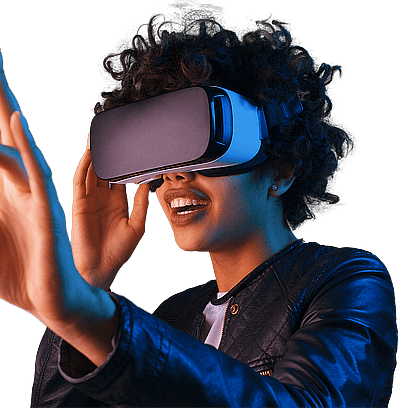
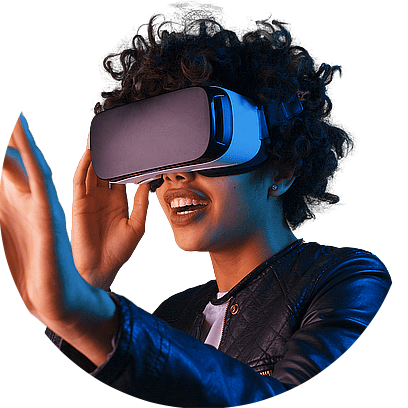
add/log-sign styles

diff --git a/public/styles.css b/public/styles.css
@@ -1,5 +1,57 @@
+.format_logSign{
+    display: flex;
+    flex-direction: column;
+    align-items: center;
+    margin-top: 5%;
+}
+
+.loginForm{
+    display: flex;
+    flex-direction: column;
+    align-items: center;
+    background: linear-gradient(180deg, #837688 20%, #066254 100%) padding-box;
+    border-radius: 1em;
+    width: 80%;
+    padding: 5% 0%;
+}
+
+a, .transparentBack{
+    background: rgba(255, 255, 255, 0)
+}
+
+input[type="email"], input[type="password"]{
+    width: 80%;
+    margin-bottom: 5%;
+}
+
+.greenletter{
+    color: rgb(4, 234, 255);
+}
+
+.pinkletter{
+    color:#EF5DBC;
+}
+
+.rowDirection {
+    display: flex;
+    flex-direction: row;
+    align-items: center;
+    justify-content: center;
+}
+
+input[type="submit"] {
+    margin-top: 10%;
+    padding: 7px 40px;
+    background: linear-gradient(180deg, #ad4788 0%, #066254 100%) padding-box,
+        linear-gradient(to bottom, #EF5DBC, rgb(4, 234, 255)) border-box;
+    border-radius: 0.75em;
+    border: 4px solid transparent;
+    font-size: 20px;
+}
+
+/* BROWSER */
 :root {
-    --pink: #F736B1;
+    --pink: #c2318d;
     --background-base: #19191A;
     --title-blue: #11E0C1;
 }
@@ -140,37 +192,37 @@ section.movies-found article a:hover p.movie-title {
 }
 
 /* HAMBURGUESA */
-#formatHeader{
+#formatHeader {
     display: flex;
     flex-direction: row;
-    align-items: center;   
-    justify-content:space-around;
+    align-items: center;
+    justify-content: space-around;
     margin-top: 5%;
 }
 
-#space{
-    width:10vw;
+#space {
+    width: 10vw;
 }
 
-#burger{
+#burger {
     width: 10vw;
     border: solid rgb(206, 78, 228);
     border-radius: 50%;
 }
 
-#burger-checkbox{
+#burger-checkbox {
     display: none;
 }
 
-nav{
-    display:none;
-        top: 0;
-        left: 0;
-        width: 100%;
-        height: 80px;
-        padding: 10px 90px;
-        box-sizing: border-box;
-        z-index: 9999
+nav {
+    display: none;
+    top: 0;
+    left: 0;
+    width: 100%;
+    height: 80px;
+    padding: 10px 90px;
+    box-sizing: border-box;
+    z-index: 9999
 }
 
 nav ul {
@@ -197,25 +249,45 @@ nav ul li a:hover {
     border-radius: 5px;
 }
 
-#burger-checkbox:checked ~ nav{
-    display:block;
+#burger-checkbox:checked~nav {
+    display: block;
 }
+
 /* ***** */
 
 /* LOG/SIGN */
-.googleicon{
+.googleicon {
     margin-left: 2%;
     width: 5%;
 }
 
-.girl-logo{
+.girl-logo {
     border-radius: 50%;
-    border: solid rgb(204, 91, 193) 5px;
-    width: 25%;
-    height: 25%;
+    border: #e83ca9;
+    border-style: solid;
+    border-width: 5px;
+    border-radius: 50%;
+    width: 50%;
+    height: 50%;
 }
+
 /* ***** */
 
+/*ABOUT*/
+.integrantes {
+    display: flex;
+    flex-direction: row;
+    align-items: center;
+}
+
+.githublogo {
+    width: 7%;
+    height: 7%;
+    border-radius: 50%;
+    margin-left: 2%;
+}
+
+/* ***** */
 /*POPUP DELETE MY MOVIES*/
 .popup-background {
     position: fixed;
@@ -226,8 +298,9 @@ nav ul li a:hover {
     display: flex;
     justify-content: center;
     align-items: center;
-    
+
 }
+
 /* ***** */
 
 .popup-content {
@@ -239,15 +312,15 @@ nav ul li a:hover {
     height: 25%;
 }
 
-a:hover{
+a:hover {
     cursor: pointer;
 }
 
-button:hover{
+button:hover {
     cursor: pointer;
 }
 
-button:active{
+button:active {
     box-shadow: 0 3px #666;
     transform: translateY(4px);
 }

diff --git a/controllers/userController.js b/controllers/userController.js
@@ -171,6 +171,10 @@ const changePassword = async (req, res) => {
     }
 }
 
+const renderAbout = (req, res) => {
+    res.status(200).render('userAbout')
+}
+
 module.exports = {
     renderBrowser,
     renderMovieDetails,
@@ -179,4 +183,5 @@ module.exports = {
     deleteFav,
     renderRestorePassword,
     changePassword,
+    renderAbout
 }

diff --git a/routes/userRoutes.js b/routes/userRoutes.js
@@ -29,4 +29,6 @@ userRouter.get('/restorepassword', userController.renderRestorePassword);
 // Recibe contraseña actual y la nueva repetida dos veces para validar:
 userRouter.post('/restorepassword', userController.changePassword);
 
+userRouter.get('/about', userController.renderAbout);
+
 module.exports = userRouter;
